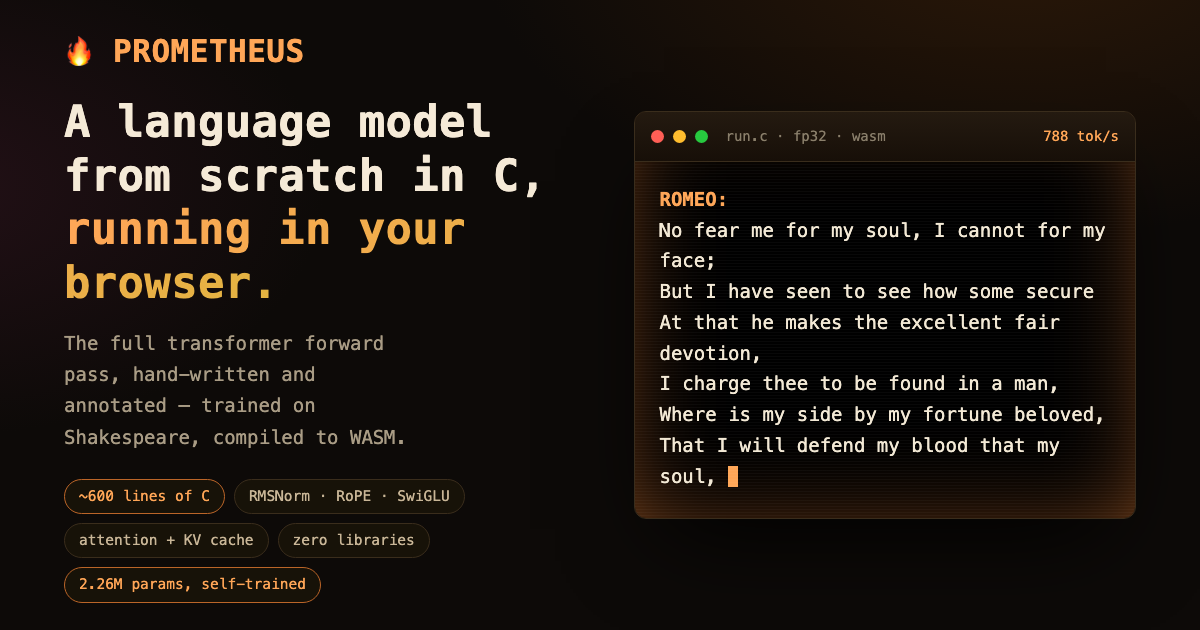
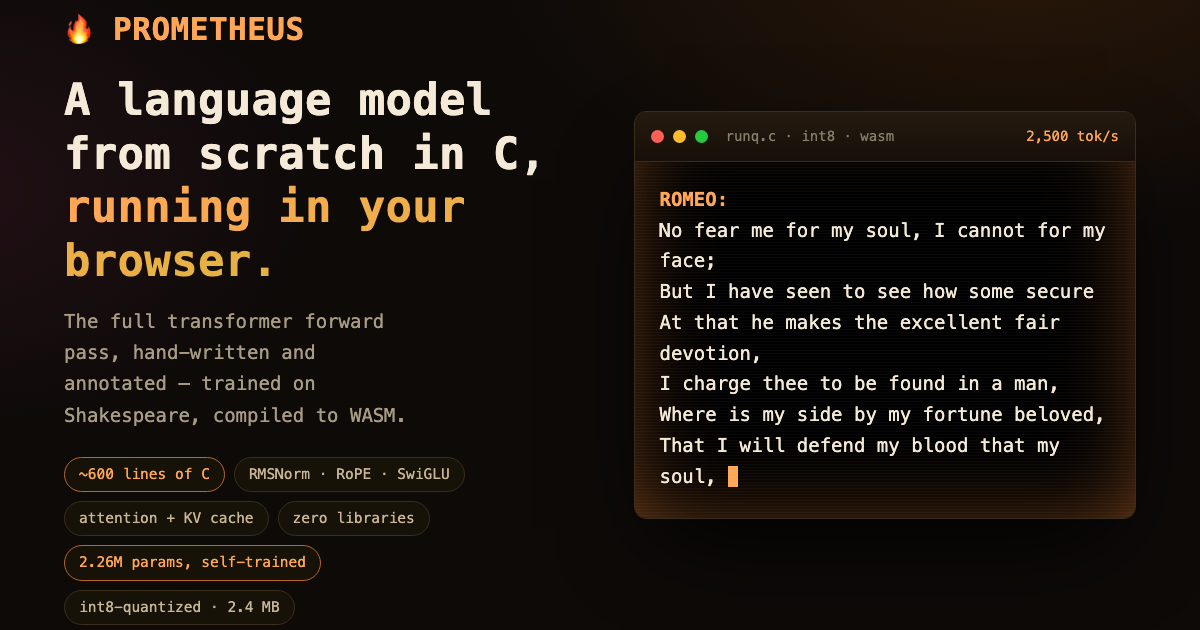
Web demo: serve the int8 engine — 2.4 MB download, walkthrough steps 16-17
web_api.c compiles against runq.c via -DPROMETHEUS_Q (identical API);
the page fetches shakespeare_q80.bin (2.4 MB vs 9.1) and the walkthrough
gains a Quantization phase: Q8_0 mechanics and the row-alignment war
story. OG card + demo gif recaptured with the int8 UI.

Changed region(s): [[0.0308, 0.0302, 0.4625, 0.9952], [0.6167, 0.2111, 0.74, 0.2413], [0.8633, 0.2111, 0.8942, 0.2413]]

diff --git a/web/index.html b/web/index.html
@@ -211,12 +211,13 @@
         <h1>A transformer language model, written from scratch in C —<br><span class="g">generating in your browser.</span></h1>
         <p class="sub">~600 lines of hand-written C: RMSNorm, rotary embeddings, multi-head attention with a KV
           cache, SwiGLU, a byte-level tokenizer and a top-p sampler. The model below was <em>trained from
-          random weights</em> on the complete works of Shakespeare, exported to a flat binary, and the same
-          C file — compiled to WebAssembly — is running it live. No libraries, no frameworks, no API calls.</p>
+          random weights</em> on the complete works of Shakespeare, <em>int8-quantized</em> down to 2.4 MB,
+          and the same C engine — compiled to WebAssembly — is running it live. No libraries, no
+          frameworks, no API calls.</p>
 
         <div class="crt">
           <div class="crt-bar"><i class="r"></i><i class="y"></i><i class="g"></i>
-            <span>run.c · 2.26M params · fp32</span><span class="tps" id="tps"></span></div>
+            <span>runq.c · 2.26M params · int8</span><span class="tps" id="tps"></span></div>
           <div class="presets" id="presets">
             <button data-p="ROMEO:">ROMEO:</button>
             <button data-p="JULIET:">JULIET:</button>
@@ -231,7 +232,7 @@
               <span id="tval">0.8</span></label>
             <button class="primary" id="go" disabled>▶ generate</button>
           </div>
-          <div class="crt-screen"><pre id="out"><span class="loading">loading 9 MB of weights…</span></pre></div>
+          <div class="crt-screen"><pre id="out"><span class="loading">loading 2.4 MB of int8 weights…</span></pre></div>
         </div>
         <p class="hint">Each speech <em>ends itself</em>: the model emits its beginning-of-sequence token when
           it thinks the speaker block is done — it learned that from where BOS sat in the training data.
@@ -618,6 +619,56 @@ for layer in model.layers: serialize_fp32(f, layer.attention.wq.weight)
 # the exact order memory_map_weights() walks. This order IS the format.</code></pre></div>
         </div>
 
+        <div class="phase-row"><span class="label">Quantization</span></div>
+
+        <div class="step" id="s16" data-n="16" data-phase="quant">
+          <header>
+            <span class="tag">16 · int8</span>
+            <h3>Four bytes into one</h3>
+            <p>Step 06 said matmul is where all the time goes — but it's not the <em>multiplies</em>, it's
+              streaming the weight bytes from memory. So: store each weight as an int8 plus one fp32
+              <span class="term" data-tip="Q8_0: per group of consecutive values, scale = max|w|/127, then q = round(w/scale). Symmetric, group-wise — one outlier only poisons its own group.">scale
+              per group of 64</span>, quantize the activations on the fly, and run the inner loop in pure
+              integer arithmetic. 4× less memory traffic, 4× smaller file. What stays fp32: the norms, the KV
+              cache, everything between ops — precision where it's cheap, bytes saved where it's expensive.</p>
+            <p>This isn't hypothetical: the engine generating above is <em>runq.c</em>, and the 2.4 MB you
+              downloaded (instead of 9.1) is the quantized checkpoint.</p>
+          </header>
+          <div class="code-wrap"><span class="file">src/runq.c — quantize() + matmul()</span>
+          <pre><code data-lang="c">// activations -&gt; int8, one scale per group, right before each matmul
+float scale = wmax / 127.0f;
+qx-&gt;q[i] = (int8_t)roundf(x[i] / scale);
+
+// the payoff: the hot loop is integer multiplies with an int32 accumulator
+for (int j = 0; j &lt;= n - GS; j += GS) {
+    int32_t ival = 0;
+    for (int k = 0; k &lt; GS; k++)
+        ival += ((int32_t)x-&gt;q[j + k]) * ((int32_t)w-&gt;q[in + j + k]);
+    val += ((float)ival) * w-&gt;s[(in + j) / GS] * x-&gt;s[j / GS];  // scales, once
+}</code></pre></div>
+        </div>
+
+        <div class="step" id="s17" data-n="17" data-phase="quant">
+          <header>
+            <span class="tag">17 · a war story</span>
+            <h3>The bug that spoke in tongues</h3>
+            <p>First int8 run of a dim-288 model: fluent English with random exotic tokens sprinkled in —
+              <em>"there was a little girl named<b>opts</b>a"</em>. Cause: 288 isn't divisible by the group
+              size 64, so quantization groups straddled matrix rows and every <em>odd</em> row read its
+              neighbour's scales. Half the vocabulary's logits corrupted, half perfect — a model that's
+              simultaneously right and wrong. Our Shakespeare model (dims 192/512) masked the bug completely.</p>
+            <p>The lesson quantized models teach: they fail <em>eloquently</em>. Nothing crashes; the text
+              just gets strange. The fix is one invariant — groups must align with rows — enforced twice:</p>
+          </header>
+          <div class="code-wrap"><span class="file">src/export.py + src/runq.c — the invariant, both sides</span>
+          <pre><code data-lang="py"># export.py: shrink the group size until it divides every row length
+while cfg["dim"] % gs != 0 or cfg["hidden_dim"] % gs != 0:
+    gs //= 2
+
+# runq.c: and refuse loudly rather than generate beautifully wrong text
+# if (config-&gt;dim % GS != 0 || config-&gt;hidden_dim % GS != 0) exit(1);</code></pre></div>
+        </div>
+
       </div>
 
       <footer>
@@ -662,7 +713,7 @@ for layer in model.layers: serialize_fp32(f, layer.attention.wq.weight)
     (async () => {
       try {
         const [model, tok] = await Promise.all([
-          fetchWithProgress("models/shakespeare.bin?v=1", "fetching weights…"),
+          fetchWithProgress("models/shakespeare_q80.bin?v=1", "fetching weights…"),
           fetch("models/byte_tokenizer.bin?v=1").then(r => r.arrayBuffer())
             .then(b => new Uint8Array(b)),
         ]);
@@ -739,7 +790,7 @@ for layer in model.layers: serialize_fp32(f, layer.attention.wq.weight)
     promptEl.addEventListener("keydown", e => { if (e.key === "Enter") generate(); });
 
     // ── sidebar nav, scroll-spy, reveal, progress, copy, highlighter ─────
-    const PHASES = { loop:"The Loop", fwd:"Forward Pass", txt:"Text ⇄ Tokens", train:"Training" };
+    const PHASES = { loop:"The Loop", fwd:"Forward Pass", txt:"Text ⇄ Tokens", train:"Training", quant:"Quantization" };
     const nav = $("nav");
     let curPhase = null;
     document.querySelectorAll(".step").forEach(step => {

diff --git a/web/og.html b/web/og.html
@@ -52,11 +52,12 @@
       <span class="chip">attention + KV cache</span>
       <span class="chip">zero libraries</span>
       <span class="chip hot">2.26M params, self-trained</span>
+      <span class="chip">int8-quantized · 2.4 MB</span>
     </div>
   </div>
   <div class="crt">
     <div class="bar"><i class="r"></i><i class="y"></i><i class="g"></i>
-      <span>run.c · fp32 · wasm</span><span class="tps">788 tok/s</span></div>
+      <span>runq.c · int8 · wasm</span><span class="tps" id="ogtps">2,500 tok/s</span></div>
     <div class="screen"><span class="p">ROMEO:</span>
 No fear me for my soul, I cannot for my face;
 But I have seen to see how some secure

diff --git a/src/web_api.c b/src/web_api.c
@@ -17,8 +17,15 @@
 
 #include <emscripten.h>
 
+/* Compile against either engine — they expose identical internals.
+ * -DPROMETHEUS_Q selects the int8 runq.c (what the live site ships:
+ * 2.4 MB of weights instead of 9.1, and ~2x the tok/s). */
 #define PROMETHEUS_LIB
+#ifdef PROMETHEUS_Q
+#include "runq.c"
+#else
 #include "run.c"
+#endif
 
 static Transformer T;
 static Tokenizer TOK;

diff --git a/docs/ARCHITECTURE.md b/docs/ARCHITECTURE.md
@@ -148,6 +148,11 @@ Export: `export.py --q80` writes the v2 "ak42" format (256-byte header with
 `[int8 q][fp32 scales]`). It accepts either `ckpt.pt` **or a legacy fp32
 .bin** — so stories15M can be quantized without its original checkpoint.
 
+The web demo now ships this engine: `make web` compiles `web_api.c` with
+`-DPROMETHEUS_Q` (which includes runq.c instead of run.c — identical
+internals) and the page fetches `shakespeare_q80.bin` (2.4 MB vs 9.1).
+Walkthrough steps 16–17 cover Q8_0 and the row-alignment war story.
+
 **The gotcha that cost an hour**: groups must align with matrix *rows*.
 runq.c's matmul indexes a weight's scales as `(row*n + j)/GS`, valid only if
 GS divides every row length (dim *and* hidden_dim). stories15M has dim=288 —

diff --git a/README.md b/README.md
@@ -87,7 +87,8 @@ accumulator. Norms, the KV cache and everything between ops stay fp32.
 
 matmul is memory-bandwidth-bound, so 1-byte weights ≈ 4× less traffic:
 the Shakespeare model drops 9.1→2.4 MB and roughly doubles in speed;
-stories15M drops 60.8→17.1 MB.
+stories15M drops 60.8→17.1 MB. The live demo serves the quantized model —
+that 2.4 MB download is what's generating in your browser.
 
 ```sh
 .venv/bin/python src/export.py models/ckpt.pt models/shakespeare_q80.bin --q80